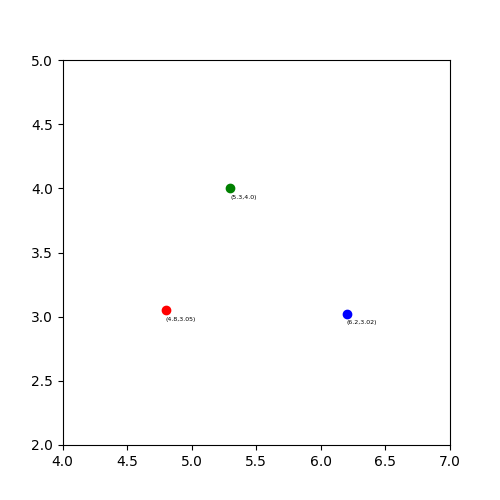
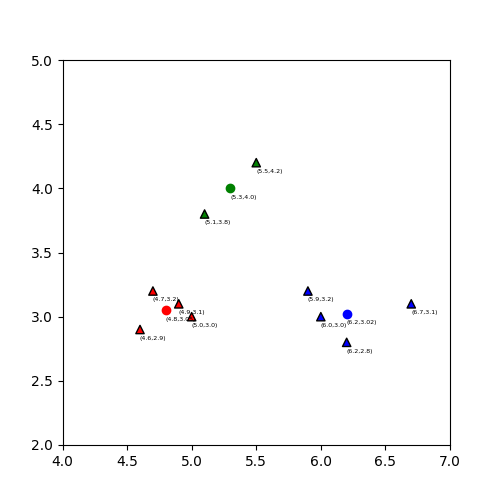
Include all points, not just centroids, in the plots

diff --git a/Project 2/Task3/main.py b/Project 2/Task3/main.py
@@ -14,7 +14,7 @@ if not os.path.exists(OUTPUT_DIR):
 img_name = "./baboon.jpg"
 
 
-def _show_plot(points, Mu, Mu_color, color_map=[], _scatter=True, _save=True, filename='temp.png'):
+def _show_plot(points, Mu, Mu_color, color_map=[], _save=True, filename='temp.png'):
     """
     """
     if len(color_map):
@@ -23,19 +23,18 @@ def _show_plot(points, Mu, Mu_color, color_map=[], _scatter=True, _save=True, fi
         k = '1'
     fig = plt.figure(figsize=(5, 5))
 
-    if _scatter:
-        plt.scatter(points[0], points[1], facecolor=k,
-                    marker='^', edgecolor='k')
+    # Scatter Points
+    plt.scatter(points[0], points[1], facecolor=k,
+                marker='^', edgecolor='k')
+    # Add coodinates to the scatter points
+    for i, j in zip(points[0], points[1]):
+        plt.text(i, j-0.08, f'({i},{j})', fontsize=4.5)
 
-    # Set Centroids
+    # Set Centroids and add annoted coordinate text
     for i in Mu.keys():
         plt.scatter(*Mu[i], color=Mu_color[i])
         plt.text(Mu[i][0], Mu[i][1]-0.08,
                  f'({Mu[i][0]},{Mu[i][1]})', fontsize=4.5)
-
-    if _scatter:
-        for i, j in zip(points[0], points[1]):
-            plt.text(i, j-0.08, f'({i},{j})', fontsize=4.5)
 
     plt.xlim(4, 7)
     plt.ylim(2, 5)
@@ -157,7 +156,7 @@ if __name__ == '__main__':
     Mu = _update_Mu(Mu, closest, points)
     print('Updated Centroids : ', Mu)
     _show_plot(points, Mu, Mu_color, color_map=color_map,
-               _scatter=False, filename='task3_iter1_b.png')
+               filename='task3_iter1_b.png')
 
     # Part 3.a : Kmeans Classification second iteration
     # Recompute coloring based on new centroids
@@ -171,7 +170,7 @@ if __name__ == '__main__':
     Mu = _update_Mu(Mu, closest, points)
     print('Updated Centroids : ', Mu)
     _show_plot(points, Mu, Mu_color, color_map=color_map,
-               _scatter=False, filename='task3_iter2_b.png')
+               filename='task3_iter2_b.png')
 
     # Part 4 : Colour Quantization
     img = cv.imread(img_name)
